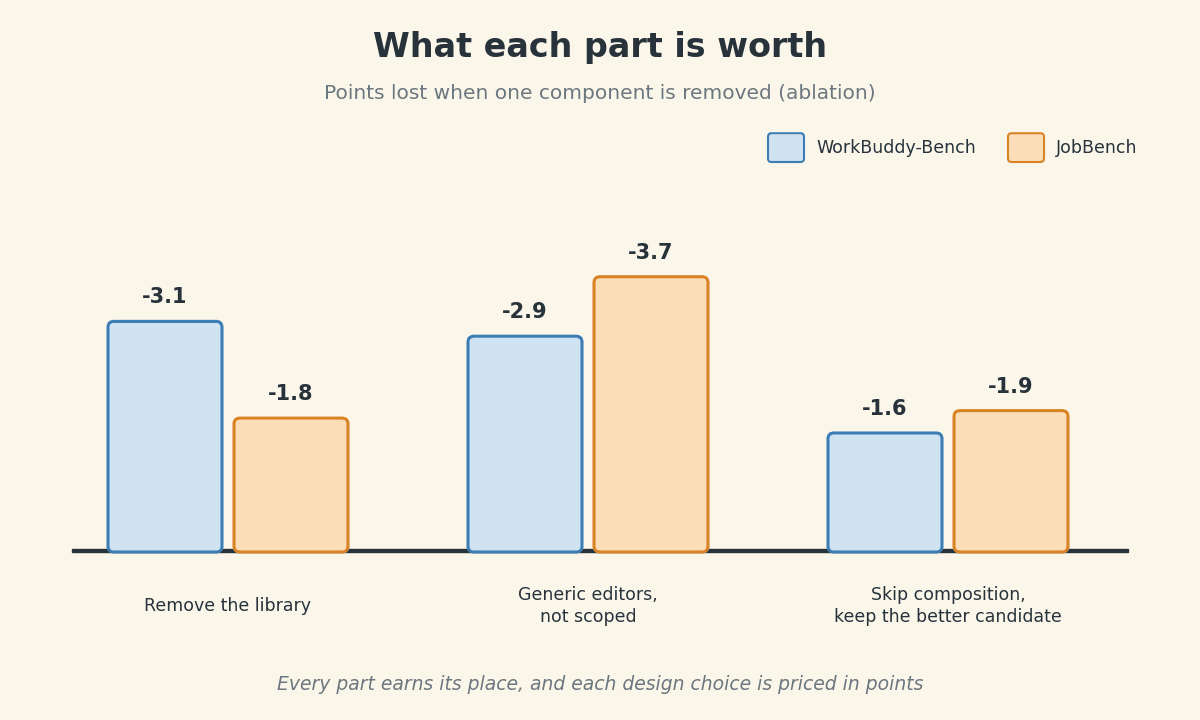
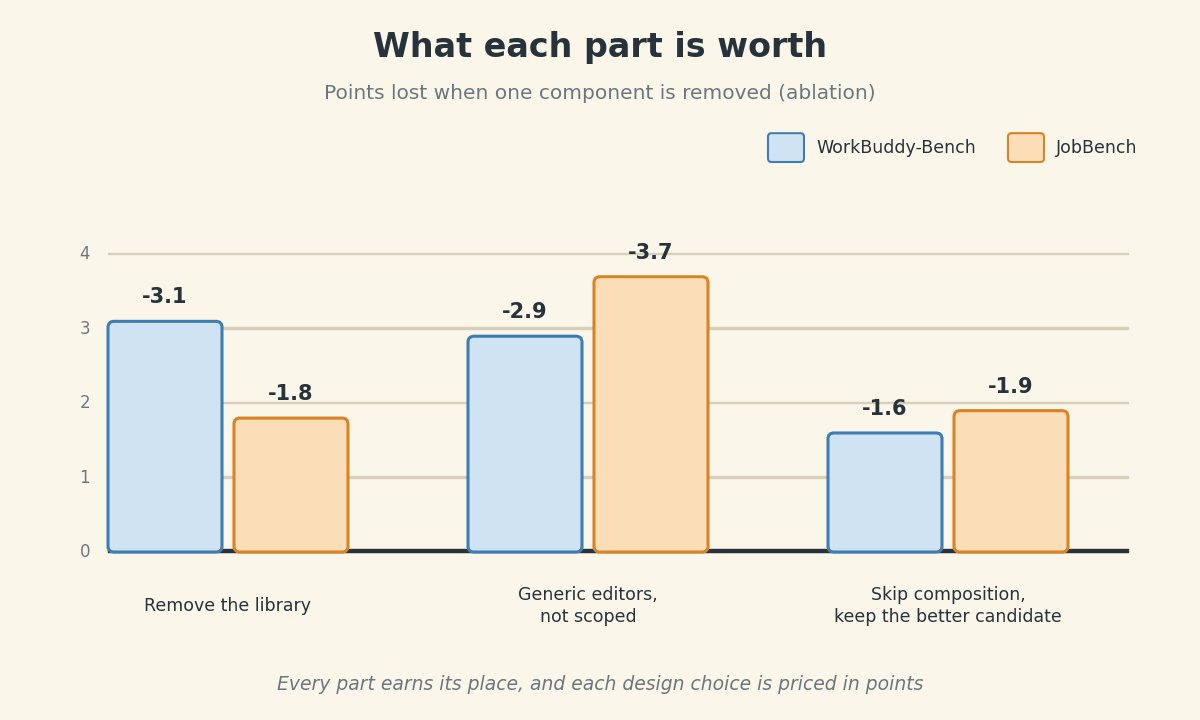
Harness²: use zero-based axes in the results charts

diff --git a/atomic-lessons/themes/tech-and-ai/harness2-self-improving-ai/what-the-experiments-showed/cards/03_weaker-models-gain-the-most.md b/atomic-lessons/themes/tech-and-ai/harness2-self-improving-ai/what-the-experiments-showed/cards/03_weaker-models-gain-the-most.md
@@ -4,7 +4,7 @@ position: 3
 title: Weaker models gain the most
 archived: false
 image: l9-weaker-model-overtakes.png
-image_alt: "Bar chart of WorkBuddy-Bench scores: with OpenCode, base Gemini 3.5 Flash 72.4 versus improved GLM-5 75.7; with Codex, base Gemini 74.5 versus improved GLM-5 75.3. The bars start at 60."
+image_alt: "Bar chart of WorkBuddy-Bench scores: with OpenCode, base Gemini 3.5 Flash 72.4 versus improved GLM-5 75.7; with Codex, base Gemini 74.5 versus improved GLM-5 75.3. The axis starts at 0."
 image_caption: "The weaker model with an improved harness wins in both setups."
 image_license: original
 ---

diff --git a/atomic-lessons/themes/tech-and-ai/harness2-self-improving-ai/what-the-experiments-showed/cards/05_taking-the-machine-apart.md b/atomic-lessons/themes/tech-and-ai/harness2-self-improving-ai/what-the-experiments-showed/cards/05_taking-the-machine-apart.md
@@ -4,7 +4,7 @@ position: 5
 title: Taking the machine apart
 archived: false
 image: l9-ablation-costs.png
-image_alt: "Grouped bars of points lost when a part is removed, WorkBuddy-Bench then JobBench: library 3.1 and 1.8, scoped editors 2.9 and 3.7, composition 1.6 and 1.9."
+image_alt: "Grouped bars on a zero-based scale of points lost when a part is removed, WorkBuddy-Bench then JobBench: library 3.1 and 1.8, scoped editors 2.9 and 3.7, composition 1.6 and 1.9."
 image_caption: "Ablation: every component earns its place."
 image_license: original
 ---
